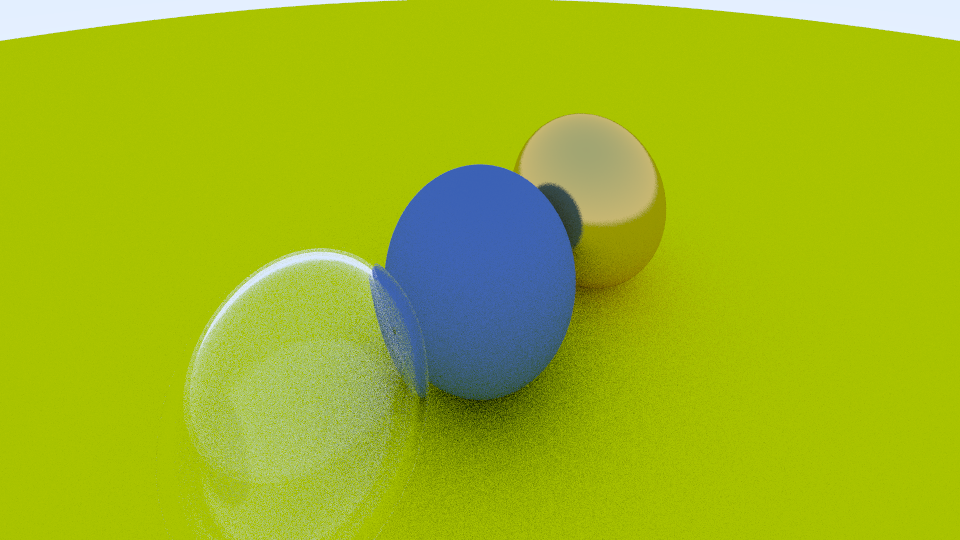
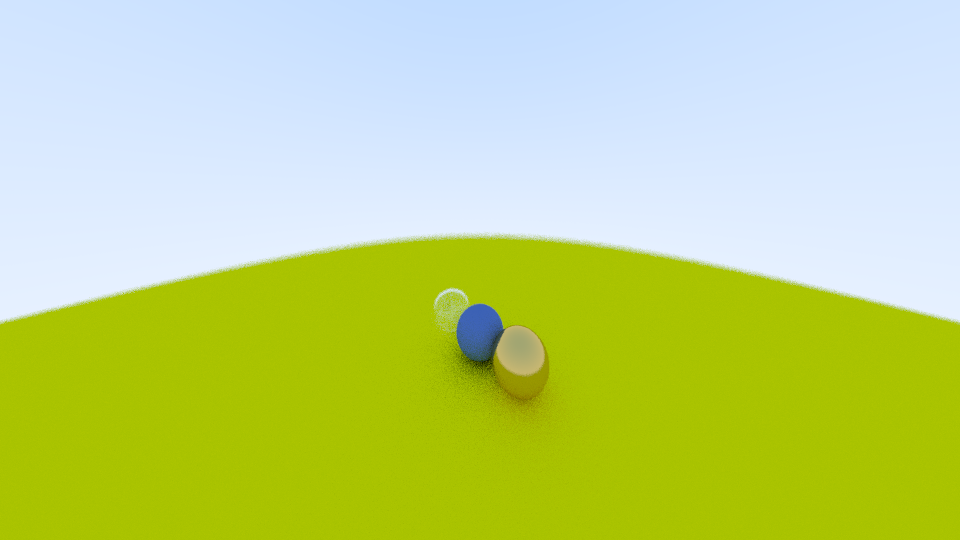
Chapter 11

diff --git a/camera.h b/camera.h
@@ -1,33 +1,52 @@
 #ifndef CAMERA_H
 #define CAMERA_H
 
+#include "myRandom.h"
 #include "vec3.h"
 
 class camera
 {
   public:
-    camera(vec3 lookFrom, vec3 lookAt, vec3 up, float fov, float aspectRatio)
-        : origin(lookFrom), direction((lookAt - lookFrom).normalized()),
-          right(vec3::cross(direction, up).normalized()),
-          up(vec3::cross(right, direction).normalized())
+    camera(vec3 lookFrom, vec3 lookAt, vec3 up, float fov, float aspectRatio, float aperture,
+           float focusDistance)
     {
-        float theta = fov * mathx::pi / 180;
-        float halfH = std::tan(theta / 2);
-        float halfW = aspectRatio * halfH;
-        upperLeftCorner = origin - halfW * right + halfH * up + direction;
-        horizontal = 2 * halfW * right;
-        vertical = -2 * halfH * up;
+        this->fov = fov;
+        this->aspectRatio = aspectRatio;
+        this->lensRadius = aperture / 2;
+        this->focusDistance = focusDistance;
+
+        float theta = this->fov * mathx::pi / 180;
+        float halfH = tan(theta / 2);
+        float halfW = this->aspectRatio * halfH;
+
+        this->origin = lookFrom;
+        this->direction = (lookAt - lookFrom).normalized();
+        this->right = vec3::cross(this->direction, up).normalized();
+        this->up = vec3::cross(this->right, this->direction).normalized();
+
+        this->upperLeftCorner = this->origin + (-halfW * this->focusDistance * this->right) +
+                                (halfH * this->focusDistance * this->up) + this->direction;
+        this->horizontal = 2 * halfW * this->focusDistance * right;
+        this->vertical = -2 * halfH * this->focusDistance * up;
     }
 
     ray getRay(float u, float v)
     {
-        return ray(origin, upperLeftCorner + u * horizontal + v * vertical - origin);
+        vec3 rd = lensRadius * myRandom::nextInUnitDiskXY();
+        vec3 offset = right * rd.x + up * rd.y;
+        vec3 from = origin + offset;
+        vec3 to = upperLeftCorner + u * horizontal + v * vertical;
+        return ray(from, to - from);
     }
 
     vec3 origin;
     vec3 direction;
     vec3 up;
     vec3 right;
+    float fov;
+    float aspectRatio;
+    float lensRadius;
+    float focusDistance;
     vec3 upperLeftCorner;
     vec3 horizontal;
     vec3 vertical;

diff --git a/main.cpp b/main.cpp
@@ -40,12 +40,18 @@ int main()
     const unsigned int maxDepth = 40;
     const float minDistance = 0.001f;
     const float maxDistance = 10000.f;
+
     // Output image data
     const int channels = 4; // STBI_rgb_alpha
     unsigned char* data = new unsigned char[width * height * channels];
 
     // Camera
-    camera cam(vec3(-2, 2, 1), vec3(0, 0, -1), vec3(0, 1, 0), 45.f, (float)width / height);
+    vec3 lookFrom(3, 3, 2);
+    vec3 lookAt(0, 0, -1);
+    float aperture = 0.2f;
+    float distanceToFocus = (lookFrom - lookAt).length();
+    camera cam(lookFrom, lookAt, /* up */ vec3(0, 1, 0), /* fov */ 90.f, (float)width / height,
+               aperture, distanceToFocus);
 
     // Scene
     hitable* list[5];
@@ -55,11 +61,6 @@ int main()
     list[3] = new sphere(vec3(-1, 0, -1), 0.5f, new dielectric(vec3(1.f, 1.f, 1.f), 1.5f));
     list[4] = new sphere(vec3(-1, 0, -1), -0.45f, new dielectric(vec3(1.f, 1.f, 1.f), 1.5f));
     hitable* world = new hitableList(list, 5);
-    // hitable* list[2];
-    // float r = cos(mathx::pi / 4);
-    // list[0] = new sphere(vec3(-r, 0, -1), r, new lambertian(vec3(0, 0, 1)));
-    // list[1] = new sphere(vec3(r, 0, -1), r, new lambertian(vec3(1, 0, 0)));
-    // hitable* world = new hitableList(list, 2);
 
     for (unsigned int j = 0; j < height; ++j) {
         for (unsigned int i = 0; i < width; ++i) {
@@ -71,10 +72,11 @@ int main()
                 col += color(r, world, minDistance, maxDistance, /* depth */ 0, maxDepth);
             }
             col /= sampling;
+
             // Gamma correction
-            int r = std::sqrt(col.x) * 255.99f;
-            int g = std::sqrt(col.y) * 255.99f;
-            int b = std::sqrt(col.z) * 255.99f;
+            int r = sqrtf(col.x) * 255.99f;
+            int g = sqrtf(col.y) * 255.99f;
+            int b = sqrtf(col.z) * 255.99f;
 
             int index = ((j * width) + i) * channels;
 

diff --git a/myRandom.h b/myRandom.h
@@ -2,7 +2,7 @@
 #define MYRANDOM_H
 
 #include "mathx.h"
-#include <math.h>
+#include "vec3.h"
 #include <random>
 
 class myRandom
@@ -17,18 +17,16 @@ class myRandom
         float costheta = nextCostheta();
         float volume = next();
 
-        float theta = std::acos(costheta);
-        float r = std::cbrtf(volume);
-        return r * vec3(std::sin(theta) * std::cos(phi), std::sin(theta) * std::sin(phi),
-                        std::cos(theta));
+        float theta = acos(costheta);
+        float r = cbrtf(volume);
+        return r * vec3(sin(theta) * cos(phi), sin(theta) * sin(phi), cos(theta));
     };
-    static vec3 nextInUnitSphere_rand()
+    static vec3 nextInUnitDiskXY()
     {
-        vec3 p;
-        do {
-            p = 2 * vec3(next(), next(), next()) - vec3(1.f, 1.f, 1.f);
-        } while (p.squaredLength() >= 1.0f);
-        return p;
+        float phi = nextPhi();
+        float area = next();
+        float r = sqrtf(area);
+        return r * vec3(cos(phi), sin(phi), 0.f);
     };
 
   private:

diff --git a/vec2.h b/vec2.h
@@ -2,8 +2,8 @@
 #define VEC2_H
 
 #include "mathx.h"
+#include <cmath>
 #include <iostream>
-#include <math.h>
 
 class vec2
 {
@@ -72,7 +72,7 @@ class vec2
         return os << "(" << v.x << ", " << v.y << ")";
     }
 
-    inline float length() const { return std::sqrt(x * x + y * y); }
+    inline float length() const { return sqrtf(x * x + y * y); }
     inline float squaredLength() const { return x * x + y * y; }
     inline vec2 normalized() const
     {
@@ -88,7 +88,7 @@ class vec2
 
     static float angle(const vec2& from, const vec2& to)
     {
-        return std::acoshf(dot(from, to) / (from.length() * to.length())) * mathx::rad2deg;
+        return acoshf(dot(from, to) / (from.length() * to.length())) * mathx::rad2deg;
     }
     static float cross(const vec2& v1, const vec2& v2) { return v1.x * v2.y - v1.y * v2.x; }
     static float distance(const vec2& v1, const vec2& v2) { return (v1 - v2).length(); }

diff --git a/vec3.h b/vec3.h
@@ -2,8 +2,8 @@
 #define VEC3_H
 
 #include "mathx.h"
+#include <cmath>
 #include <iostream>
-#include <math.h>
 
 class vec3
 {
@@ -81,7 +81,7 @@ class vec3
         return os << "(" << v.x << ", " << v.y << ", " << v.z << ")";
     }
 
-    inline float length() const { return std::sqrt(x * x + y * y + z * z); }
+    inline float length() const { return sqrtf(x * x + y * y + z * z); }
     inline float squaredLength() const { return x * x + y * y + z * z; }
     inline vec3 normalized() const
     {
@@ -98,7 +98,7 @@ class vec3
 
     static float angle(const vec3& from, const vec3& to)
     {
-        return std::acoshf(dot(from, to) / (from.length() * to.length())) * mathx::rad2deg;
+        return acoshf(dot(from, to) / (from.length() * to.length())) * mathx::rad2deg;
     }
     static vec3 cross(const vec3& v1, const vec3& v2)
     {

diff --git a/hitable.h b/hitable.h
@@ -31,7 +31,7 @@ class sphere : public hitable
         float c = vec3::dot(oc, oc) - radius * radius;
         float discriminant = b * b - a * c;
         if (discriminant > 0) {
-            float temp = (-b - sqrt(b * b - a * c)) / a;
+            float temp = (-b - sqrtf(b * b - a * c)) / a;
             if (temp < tMax && temp > tMin) {
                 rec.distance = temp;
                 rec.point = r.getPoint(rec.distance);
@@ -39,7 +39,7 @@ class sphere : public hitable
                 rec.mat = mat;
                 return true;
             }
-            temp = (-b + sqrt(b * b - a * c) / a);
+            temp = (-b + sqrtf(b * b - a * c) / a);
             if (temp < tMax && temp > tMin) {
                 rec.distance = temp;
                 rec.point = r.getPoint(rec.distance);

diff --git a/material.h b/material.h
@@ -23,7 +23,7 @@ class material
         float dt = vec3::dot(uv, normal);
         float discriminant = 1.0f - ((niOverPoint * niOverPoint) * (1 - dt * dt));
         if (discriminant > 0) {
-            refracted = niOverPoint * (uv - normal * dt) - normal * std::sqrt(discriminant);
+            refracted = niOverPoint * (uv - normal * dt) - normal * sqrtf(discriminant);
             return true;
         }
         return false;
@@ -32,7 +32,7 @@ class material
     {
         float r0 = (1 - refIdx) / (1 + refIdx);
         r0 = r0 * r0;
-        return r0 + (1 - r0) * std::pow((1 - cosine), 5);
+        return r0 + (1 - r0) * pow((1 - cosine), 5);
     }
 };
 

diff --git a/materials.h b/materials.h
@@ -55,7 +55,7 @@ class dielectric : public material
             outwardNormal = -rec.normal;
             niOverPoint = refIdx;
             cosine = vec3::dot(incoming.direction, rec.normal) / incoming.direction.length();
-            cosine = std::sqrt(1 - refIdx * refIdx * (1 - cosine * cosine));
+            cosine = sqrtf(1 - refIdx * refIdx * (1 - cosine * cosine));
         } else {
             outwardNormal = rec.normal;
             niOverPoint = 1.0f / refIdx;
